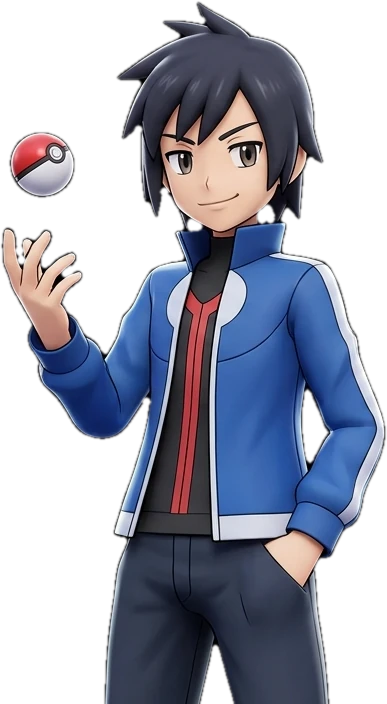
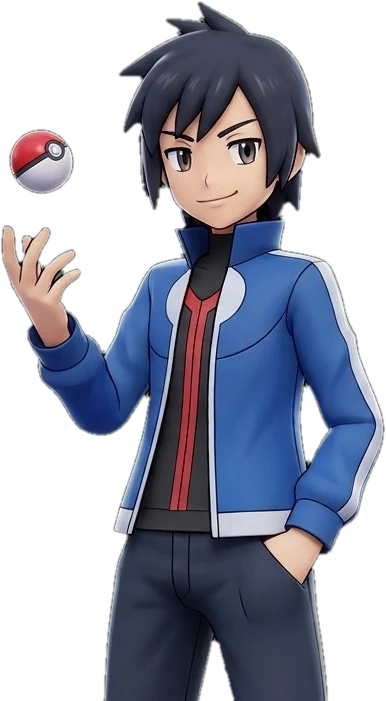
App: allenatori della scena TRAINERS ritagliati dallo sfondo verde (bordi puliti, buchi trasparenti)
Claude-Session: https://claude.ai/code/session_01G7sYikhG7HEY1A3mUCTzFw

diff --git a/docs/app-scena.css b/docs/app-scena.css
@@ -66,7 +66,7 @@ html.app .gx-c-box .e-dx { height: calc(192 * var(--u)); right: calc(-12 * var(-
 html.app .gx-c-trainers .gx-eroe { image-rendering: pixelated; filter: drop-shadow(0 calc(6 * var(--u)) 0 rgba(0, 0, 0, .35)); }
 html.app .gx-c-trainers .gx-eroe.propria { image-rendering: auto; filter: drop-shadow(0 0 calc(12 * var(--u)) rgba(255, 255, 255, .5)) drop-shadow(0 calc(8 * var(--u)) calc(6 * var(--u)) rgba(40, 0, 40, .5)); }
 html.app .gx-c-trainers .t-1 { height: calc(290 * var(--u)); left: calc(96 * var(--u)); bottom: 0; z-index: 2; }
-html.app .gx-c-trainers .t-2 { height: calc(248 * var(--u)); right: calc(96 * var(--u)); bottom: 0; z-index: 2; }
+html.app .gx-c-trainers .t-2 { height: calc(277 * var(--u)); right: calc(96 * var(--u)); bottom: 0; z-index: 2; }
 html.app .gx-c-trainers .gx-aura-l { left: calc(70 * var(--u)); bottom: calc(30 * var(--u)); width: calc(230 * var(--u)); height: calc(230 * var(--u)); background: radial-gradient(circle, rgba(255, 200, 90, .7) 0%, rgba(255, 120, 60, .3) 42%, transparent 70%); }
 html.app .gx-c-trainers .gx-aura-r { right: calc(70 * var(--u)); bottom: calc(30 * var(--u)); width: calc(230 * var(--u)); height: calc(230 * var(--u)); background: radial-gradient(circle, rgba(200, 160, 255, .7) 0%, rgba(120, 80, 255, .3) 42%, transparent 70%); }
 
